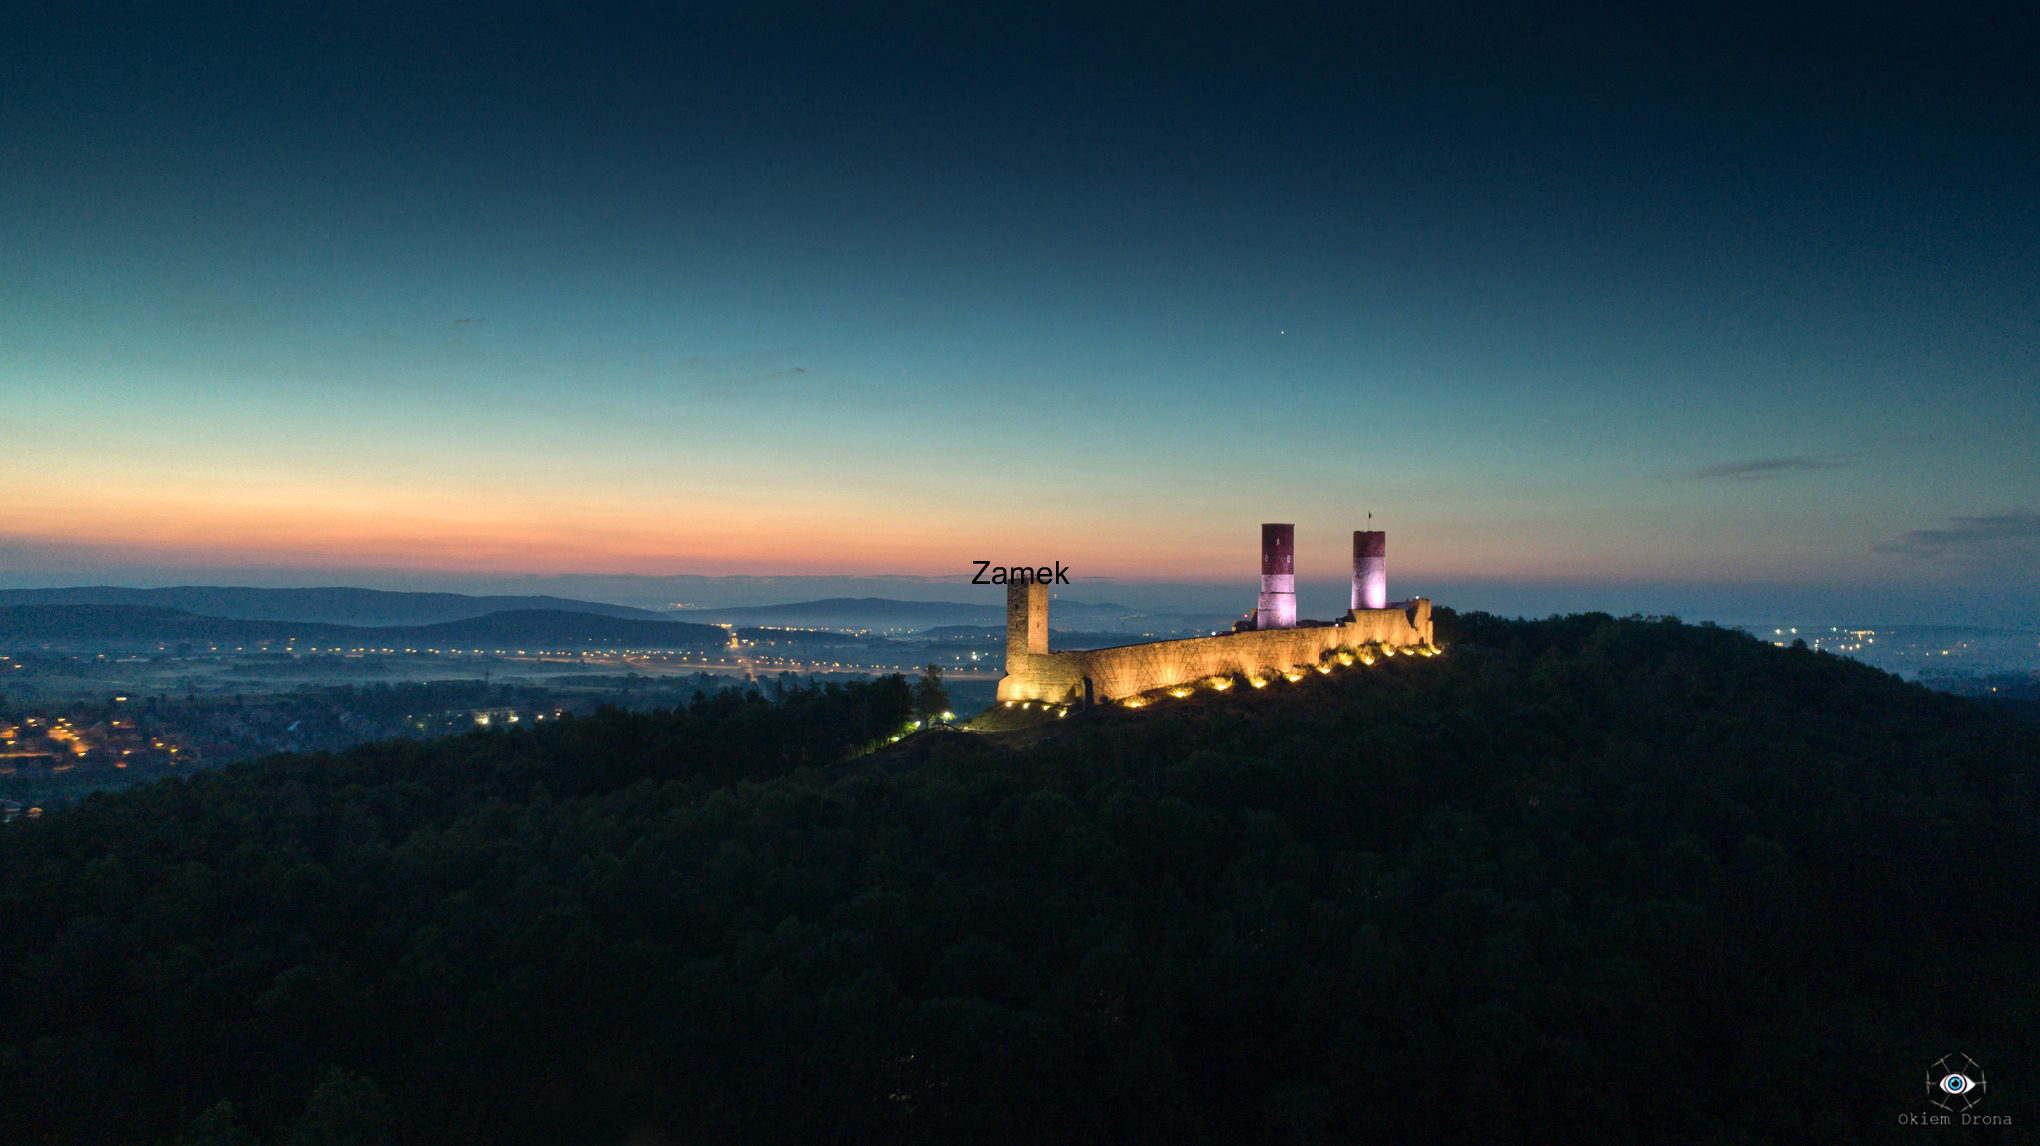
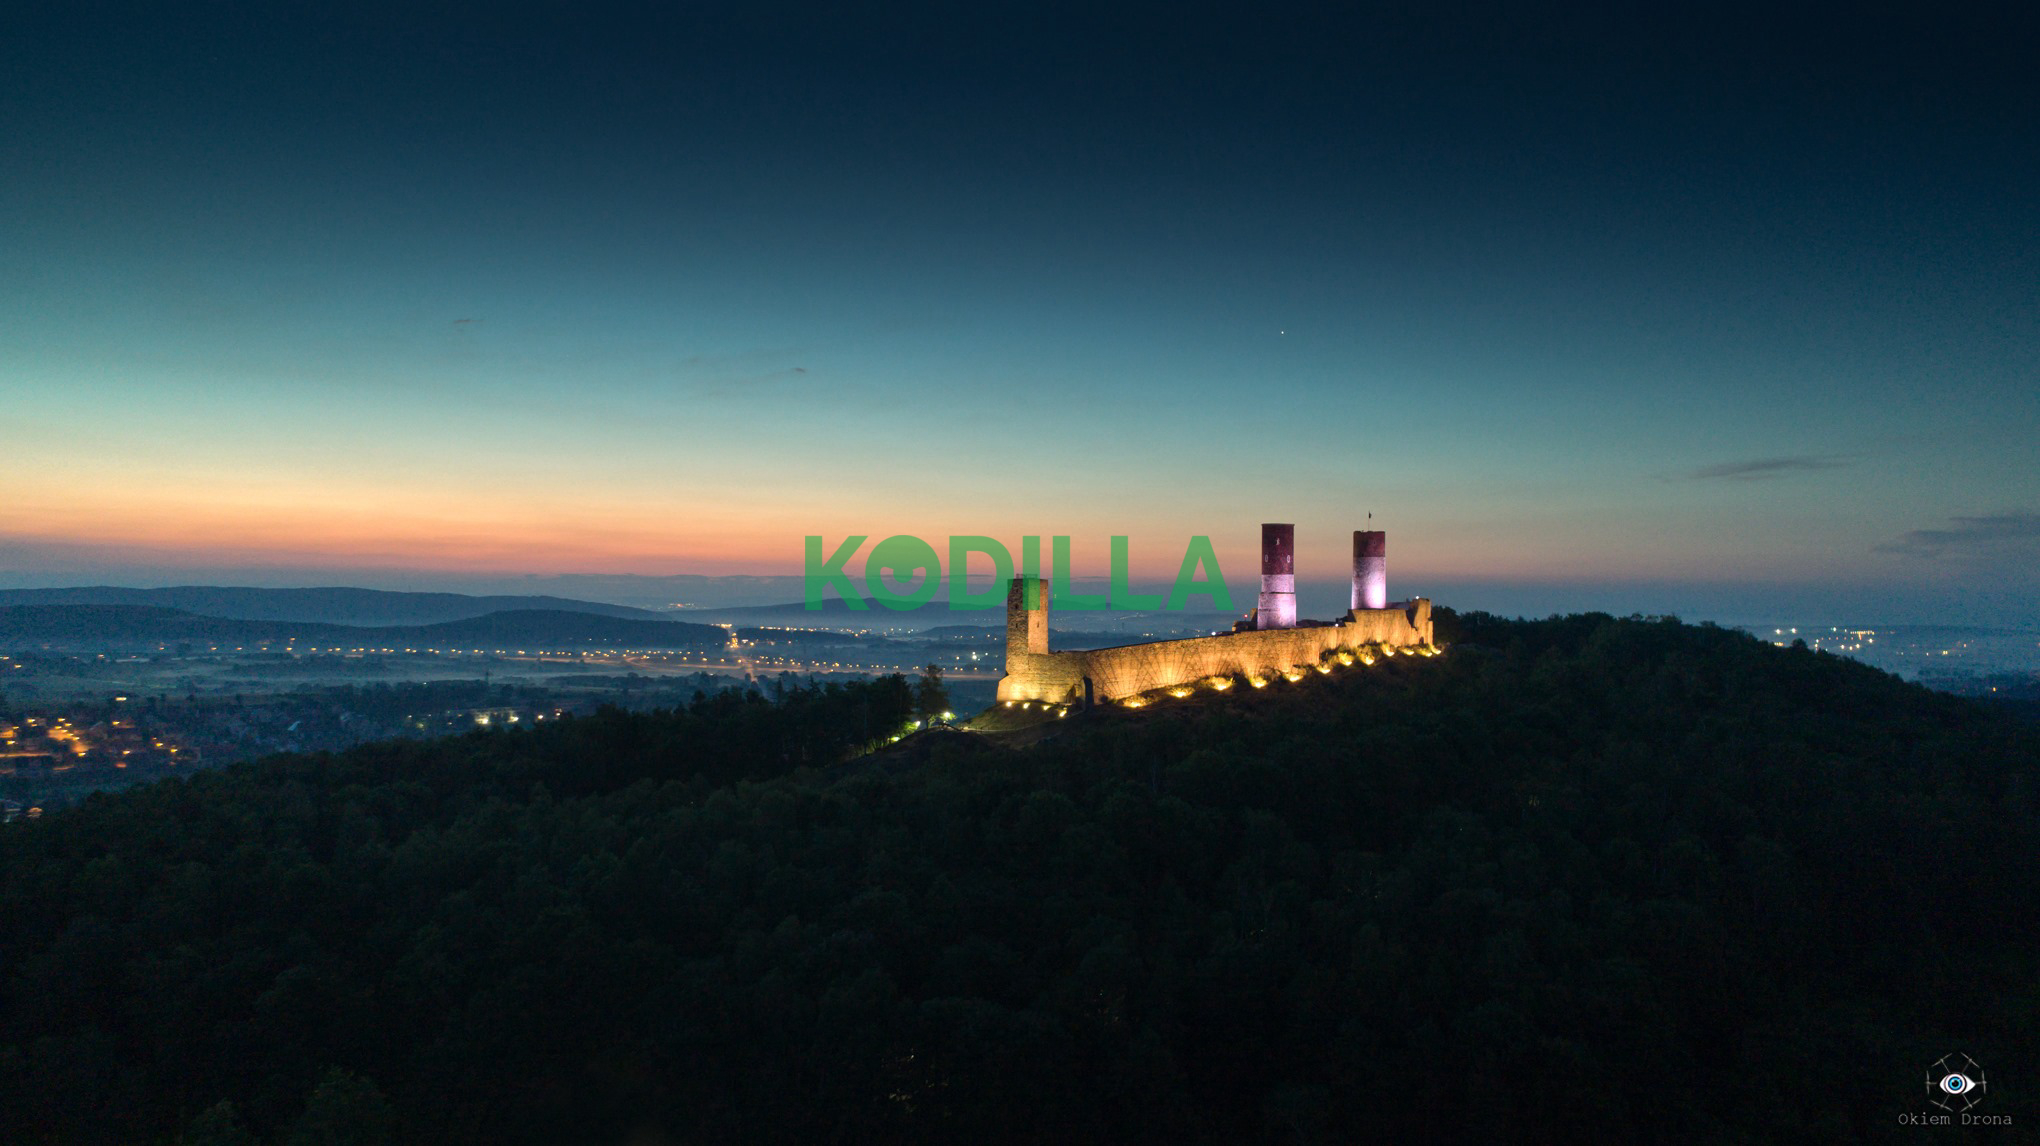
Finish app

Changed region(s): [[0.3706, 0.4581, 0.6176, 0.5497]]

diff --git a/app.js b/app.js
@@ -1,30 +1,42 @@
 const Jimp = require('jimp');
 const inquirer = require('inquirer');
+const fs = require('fs');
 
 const addTextWatermarkToImage = async function(inputFile, outputFile, text) {
-  const image = await Jimp.read(inputFile);
-  const font = await Jimp.loadFont(Jimp.FONT_SANS_32_BLACK);
-  const textData = {
-    text: text,
-    alignmentX: Jimp.HORIZONTAL_ALIGN_CENTER,
-    alignmentY: Jimp.VERTICAL_ALIGN_MIDDLE,
-  };
-
-  image.print(font, 0, 0, textData, image.getWidth(), image.getHeight());
-  image.quality(100).write(outputFile)
+  try {
+    const image = await Jimp.read(inputFile);
+    const font = await Jimp.loadFont(Jimp.FONT_SANS_32_BLACK);
+    const textData = {
+        text: text,
+        alignmentX: Jimp.HORIZONTAL_ALIGN_CENTER,
+        alignmentY: Jimp.VERTICAL_ALIGN_MIDDLE,
+    };
+    image.print(font, 0, 0, textData, image.getWidth(), image.getHeight());
+    image.quality(100).write(outputFile)
+    console.log('Success! Your photo is ready!');
+    startApp();
+    } catch (error) {
+        console.log('Something went wrong... Try again!');
+    }
 };
 
 const addImageWatermarkToImage = async function(inputFile, outputFile, watermarkFile) {
-  const image = await Jimp.read(inputFile);
-  const watermark = await Jimp.read(watermarkFile);
-  const x = image.getWidth() / 2 - watermark.getWidth() / 2;
-  const y = image.getHeight() / 2 - watermark.getHeight() / 2;
+  try {
+    const image = await Jimp.read(inputFile);
+    const watermark = await Jimp.read(watermarkFile);
+    const x = image.getWidth() / 2 - watermark.getWidth() / 2;
+    const y = image.getHeight() / 2 - watermark.getHeight() / 2;
 
-  image.composite(watermark, x, y, {
-    mode: Jimp.BLEND_SOURCE_OVER,
-    opacitySource: 0.5,
-  });
-  image.quality(100).write(outputFile);
+    image.composite(watermark, x, y, {
+        mode: Jimp.BLEND_SOURCE_OVER,
+        opacitySource: 0.5,
+    });
+    image.quality(100).write(outputFile);
+    console.log('Success! Your photo is ready!');
+    startApp();
+    } catch (error) {
+        console.log('Something went wrong... Try again!');
+    }
 };
 
 const prepareOutputFilename = (filename) => {
@@ -34,17 +46,14 @@ const prepareOutputFilename = (filename) => {
 
 const startApp = async () => {
 
-  // Ask if user is ready
   const answer = await inquirer.prompt([{
       name: 'start',
-      message: 'Hi! Welcome to "Watermark manager". Copy your image files to `/img` folder. Then you\'ll be able to use them in the app. Are you ready?',
+      message: 'Hi! Welcome to "Watermark manager". Copy your image files to `/img` folder. Then you will be able to use them in the app. Are you ready?',
       type: 'confirm'
     }]);
 
-  // if answer is no, just quit the app
   if(!answer.start) process.exit();
 
-  // ask about input file and watermark type
   const options = await inquirer.prompt([{
     name: 'inputImage',
     type: 'input',
@@ -63,9 +72,14 @@ const startApp = async () => {
       message: 'Type your watermark text:',
     }])
     options.watermarkText = text.value;
-    addTextWatermarkToImage('./img/' + options.inputImage, './img/' + prepareOutputFilename(options.inputImage), options.watermarkText);
-  }
-  else {
+
+    if (fs.existsSync('./img/' + options.inputImage) === true) {
+        console.log('The file exists.');
+        addTextWatermarkToImage('./img/' + options.inputImage, './img/' + prepareOutputFilename(options.inputImage), options.watermarkText);
+      } else {
+        console.log('File not found');
+      }    
+  }  else {
     const image = await inquirer.prompt([{
       name: 'filename',
       type: 'input',
@@ -73,9 +87,12 @@ const startApp = async () => {
       default: 'logo.png',
     }])
     options.watermarkImage = image.filename;
-    addImageWatermarkToImage('./img/' + options.inputImage, './img/' + prepareOutputFilename(options.inputImage), './img/' + options.watermarkImage);
+    if ( fs.existsSync('./img/' + options.inputImage) === true && fs.existsSync('./img/' + options.watermarkImage) === true ){
+        addImageWatermarkToImage('./img/' + options.inputImage, './img/' + prepareOutputFilename(options.inputImage), './img/' + options.watermarkImage);
+    } else {
+        console.log('File not found');
+    }
   }
-
 };
 
 startApp();
